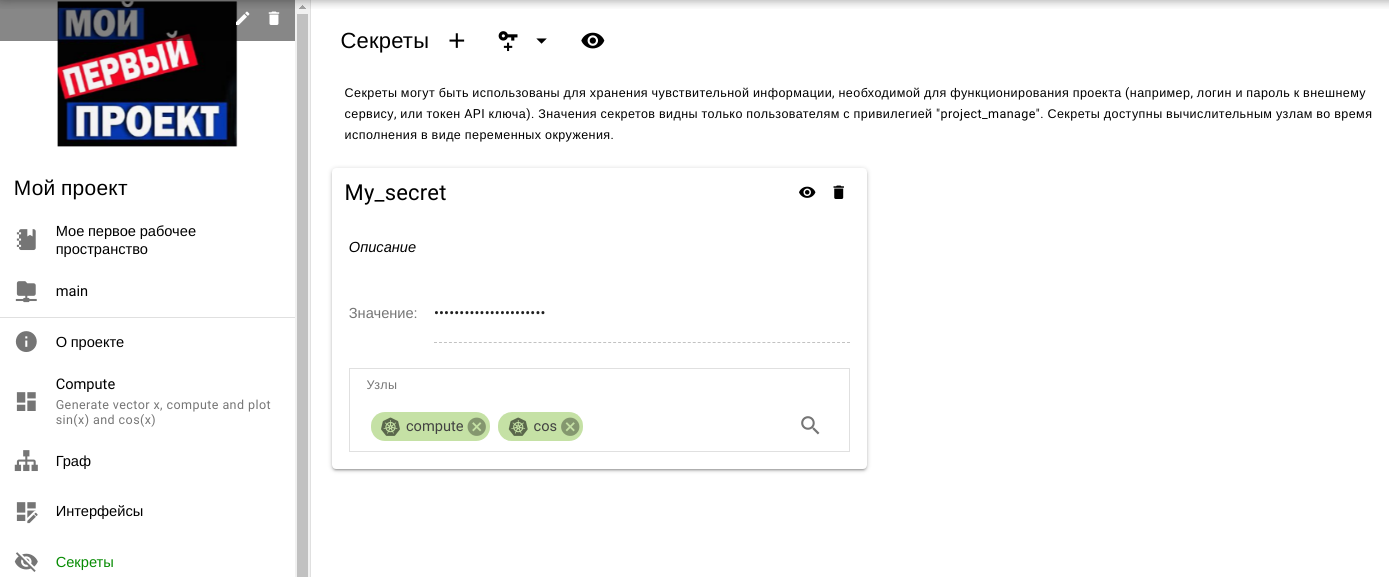
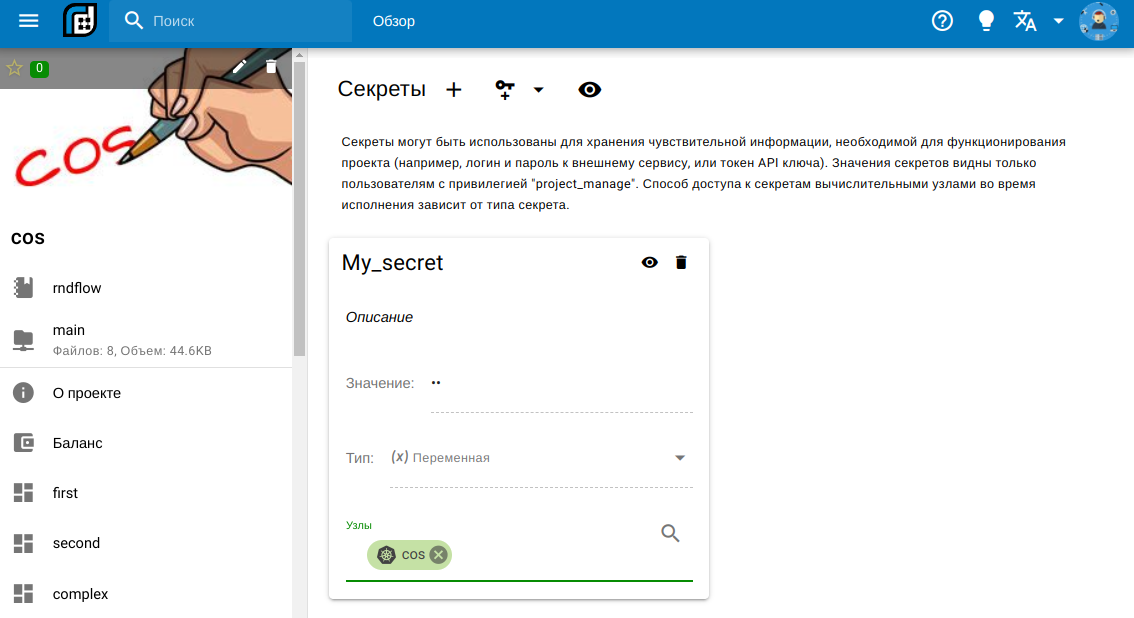
1. Update secrets info. 2. Update node containers panel info

diff --git a/src/desc/nodes.md b/src/desc/nodes.md
@@ -179,13 +179,18 @@ Cтруктура:
 
   Необходимый докер образ можно выбрать из списка или набрать название самостоятельно (в последнем случае набор необходимо завершить нажатием **Enter**).
 
-- Загрузка - политика загрузки докер образа узла.
+- <span class="iconify-inline" data-icon="mdi:all-inclusive" style="color: red"/> -  Загрузка, политика загрузки докер образа узла.
 
-  Типы политик:  
-  - Всегда - загружать докер образ в случае его изменения, иначе использовать локальную версию.
-  - При отсутствии - загружать докер образ при его отсутствии на узле.
-  - Никогда -  не загружать докер образ из внешнего репозитория. Использовать только локальную версию.
-  - Исполнитель - использовать значение по умолчанию [исполнителя][10].
+  Типы:
+  - <span class="iconify-inline" data-icon="mdi:all-inclusive" style="color: red"/> - Всегда, загружать докер образ в случае его изменения, иначе использовать локальную версию.
+
+  - <span class="iconify-inline" data-icon="mdi:repeat-once" style="color: blue"/> - При отсутствии, загружать докер образ при его отсутствии на узле.
+
+  - <span class="iconify-inline" data-icon="mdi:download-off-outline" style="color: orange"/> - Никогда, не загружать докер образ из внешнего репозитория. Использовать только локальную версию.
+
+  - <span class="iconify-inline" data-icon="mdi-robot-outline" style="color: blue"/> - Исполнитель, использовать значение по умолчанию [исполнителя][10].
+
+  Знак <span class="iconify-inline" data-icon="mdi-lock"/> появляется если к узлу подключен [секрет][11], типа ["Загрузка образов"][12], то есть если необходимо подключение к приватному Докер реестру.
 
   ::: tip <span class="iconify" data-icon="mdi:information" style="color: #42b983; font-size: 24px;"/>
   Все типы политик, кроме типа "Исполнитель", соответствуют стандартным [политикам](https://kubernetes.io/concepts/containers/images/#image-pull-policy) Kubernetes. 
@@ -197,14 +202,19 @@ Cтруктура:
   При постоянном использовании политики "Всегда" без промежуточного кеширующего прокси возможно превышение лимитов на доступ к регистру хранения (лимиты определяются самими регистром, например, для [Dockerhub](https://hub.docker.com/) задаются следущие [лимиты](https://docs.docker.com/docker-hub/download-rate-limit/)). 
   :::
 
-- Приоритет - приоритет выполнения заданий.
+- <span class="iconify-inline" data-icon="mdi:speedometer-medium"  style="color: orange"/> - Приоритет, приоритет выполнения заданий.
 
-- Сервер расчетов - индивидуальный сервер расчета (исполнитель) узла.
+  Типы:
+
+  - <span class="iconify-inline" data-icon="mdi:speedometer-slow" style="color: red"/> - низкий
+  - <span class="iconify-inline" data-icon="mdi:speedometer-medium" style="color: orange"/> - нормальный
+  - <span class="iconify-inline" data-icon="mdi:speedometer" style="color: green"/> - высокий
+
+- <span class="iconify-inline" data-icon="mdi:server-plus" style="color: green"/> - [Сервер расчетов][10], индивидуальный сервер расчета (исполнитель) узла.
 
   ::: tip <span class="iconify" data-icon="mdi:information" style="color: #42b983; font-size: 24px;"/>
-  Выбор происходит по нажатия кнопки <span class="iconify-inline" data-icon="mdi:plus"/>
 
-  После этого на панели узла появляется пометка <span class='iconify-inline' data-icon='mdi:circle' style='color: green'/> над <span class='iconify-inline' data-icon='mdi:kubernetes'/> :
+  После выбора сервера расчетов, кнопка заменяется на иконку соответстующего сервера расчетов, а на панели узла появляется пометка <span class='iconify-inline' data-icon='mdi:circle' style='color: green'/> над <span class='iconify-inline' data-icon='mdi:kubernetes'/> :
 
   ![Compute node with executor](/images/common/node_compute_executor.png)
 
@@ -609,4 +619,6 @@ Cтруктура:
 [7]: /desc/docker.md
 [8]: /desc/job.md#типы
 [9]: /desc/dashboard.md#редактирование
-[10]: /desc/executor.html
+[10]: /desc/executor.md
+[11]: /desc/secrets.md
+[12]: /desc/secrets.md#типы-секретов

diff --git a/src/desc/secrets.md b/src/desc/secrets.md
@@ -2,21 +2,30 @@
 
 ## Общее
 
-Секреты используется для хранения чувствительной информации, необходимой для функционирования проекта (например, логин и пароль к внешнему сервису, или токен [API ключа][1]). Значения секретов видны только пользователям с привилегией **project_manage**. Секреты доступны вычислительным узлам во время исполнения в виде переменных окружения.
+Секреты используется для хранения чувствительной информации, необходимой для функционирования проекта (например, логин и пароль к внешнему сервису, или токен [API ключа][1]). Значения секретов видны только пользователям с [разрешением][2] **project_manage**. Секреты используются в зависимости от их [типов](#типы-секретов).
 
 ![Secrets](/images/common/secrets.png)
 
 Структура панели:
 
 - Панель управления
-  - <span class="iconify-inline" data-icon="mdi:plus"></span> кнопка добавления нового секрета
-  - <span class="iconify-inline" data-icon="mdi:key-plus"></span> меню добавления [API ключа][1]
-  - <span class="iconify-inline" data-icon="mdi:eye"></span> показать значения секретов
+  - <span class="iconify-inline" data-icon="mdi:plus"/> кнопка добавления нового секрета
+  - <span class="iconify-inline" data-icon="mdi:key-plus"/> меню добавления [API ключа][1]
+  - <span class="iconify-inline" data-icon="mdi:eye"/> показать значения секретов
 - Список [панелей плиток](#плитка-секрета) секретов
 
 Также секреты отображаются на вкладке **ОПИСАНИЕ** узлов, которым доступен указанный секрет.
 
 ![Node secrets](/images/common/secrets_node_definition.png)
+
+## Типы секретов
+
+- <span class="iconify-inline" data-icon="mdi:variable"/> Переменная - значение секрета доступно в исполняемом [задании][3] через переменную окружения.
+- <span class="iconify-inline" data-icon="mdi:cloud-lock"/> Загрузка образов - учетные данные для загрузки Докер образов из приватных Докер реестров.
+  > В качестве учетных данных используются:
+  > - Доменное имя Докер реестра (например, rep.rndflow.com)
+  > - Имя пользователя
+  > - Пароль
 
 ## Плитка секрета
 
@@ -25,9 +34,12 @@
 1. Редактируемое имя
 2. Редактируемое описание
 3. Редактируемое значение
-4. Список узлов, которым доступен секрет
-5. <span class="iconify-inline" data-icon="mdi:magnify"></span> Меню добавления узлов
-6. <span class="iconify-inline" data-icon="mdi:delete"></span> Удалить
-7. <span class="iconify-inline" data-icon="mdi:eye"></span> Показать значение
+4. [Тип](#типы-секретов) секрета
+5. Список узлов, которым доступен секрет
+6. <span class="iconify-inline" data-icon="mdi:magnify"/> Меню добавления узлов
+7. <span class="iconify-inline" data-icon="mdi:delete"/> Удалить
+8. <span class="iconify-inline" data-icon="mdi:eye"/> Показать значение
 
 [1]: /desc/api_keys.md
+[2]: /desc/project_role.md#типы-разрешении
+[3]: /desc/job.md
